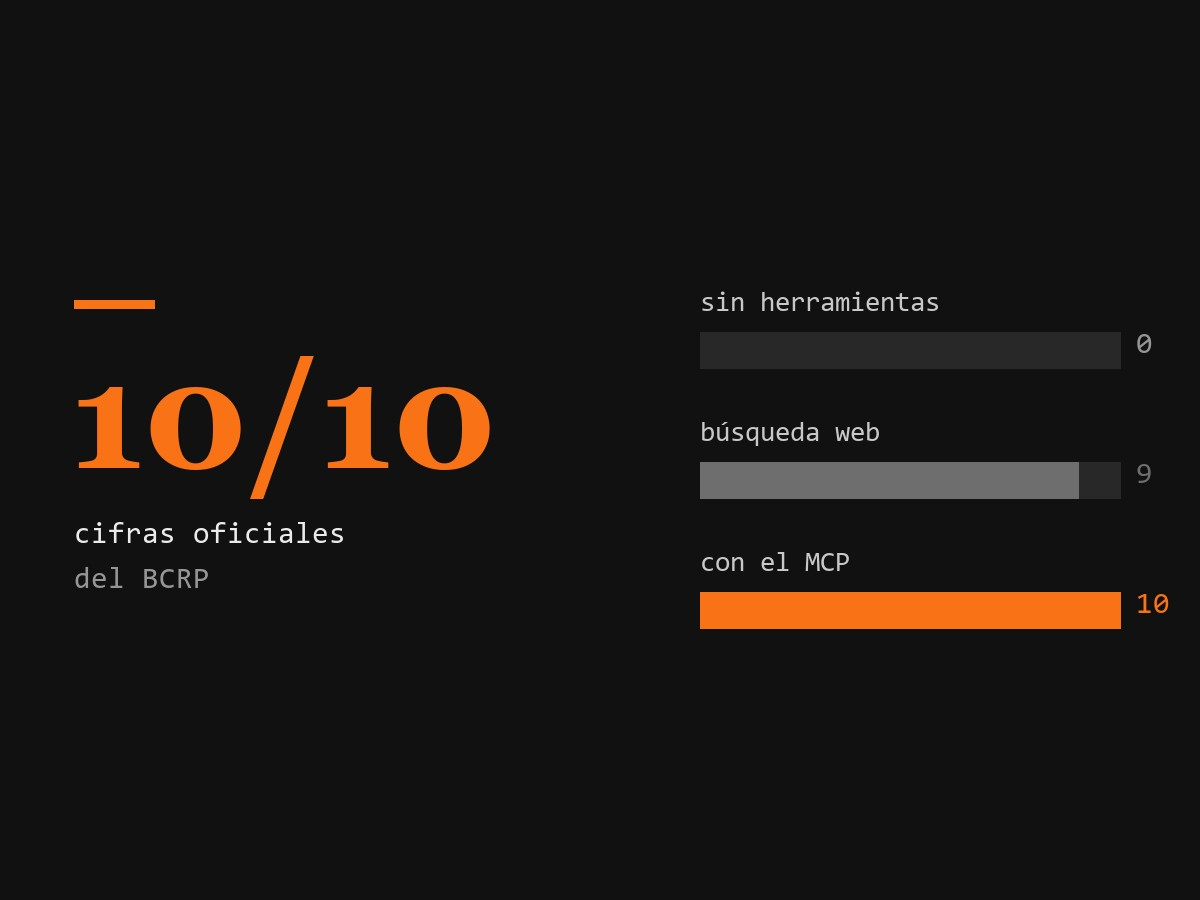
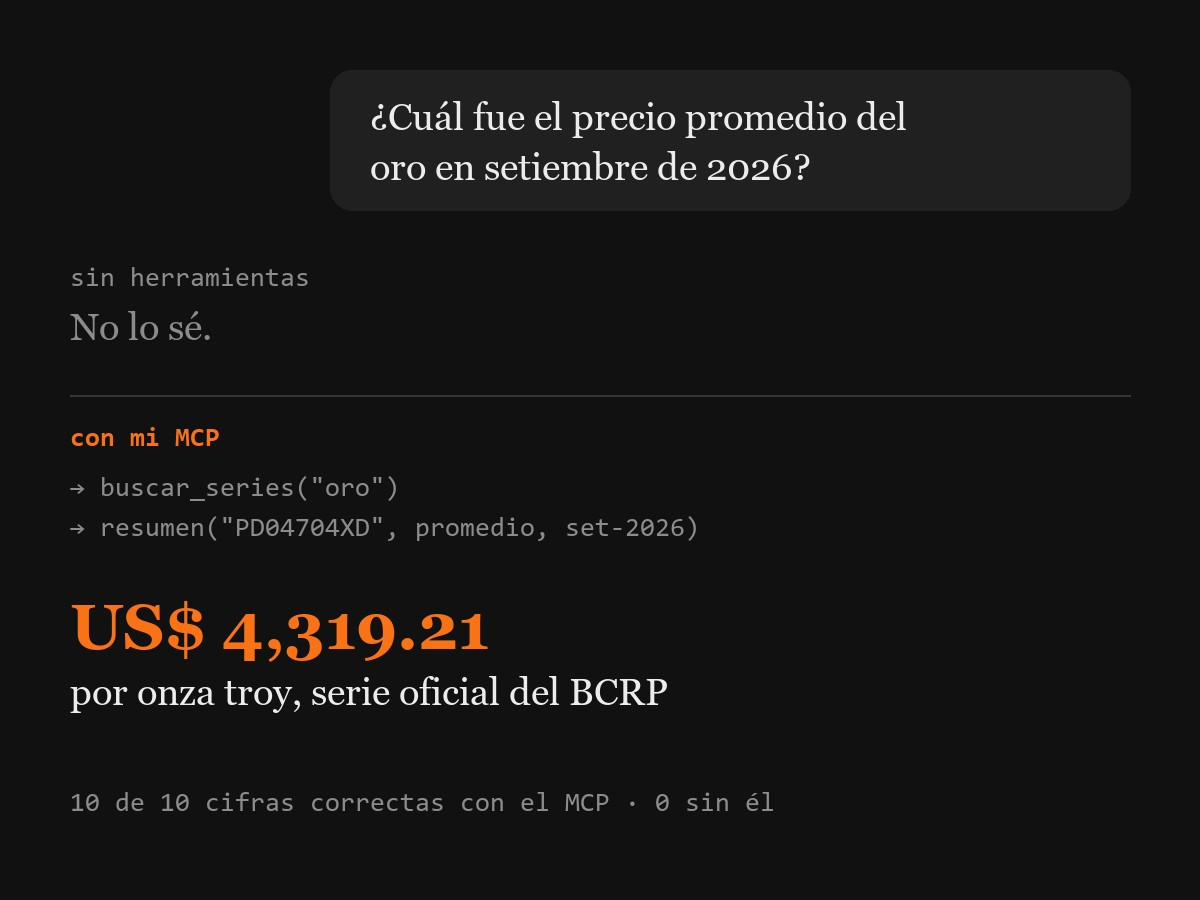
Miniaturas nuevas: Characato con imagen satelital, MCP con un caso real

diff --git a/index.html b/index.html
@@ -122,7 +122,7 @@
     </article>
 
     <article class="proyecto aparece">
-      <a href="https://github.com/nicosil02/mcp-bcrp"><img src="images/mcp-thumb.jpg" alt="Aciertos de Claude con y sin el servidor MCP del BCRP"></a>
+      <a href="https://github.com/nicosil02/mcp-bcrp"><img src="images/mcp-thumb.jpg" alt="Pregunta sobre el precio del oro respondida con la serie oficial del BCRP"></a>
       <div>
       <p class="etiqueta">Python · FastMCP · BCRP</p>
       <h3><span data-l="es">Un MCP con las series del BCRP</span><span data-l="en">An MCP server for Peru's central bank data</span></h3>
@@ -142,7 +142,7 @@
     </article>
 
     <article class="proyecto aparece">
-      <a href="https://github.com/nicosil02/incendios-chacras-peru"><img src="images/incendios-thumb.jpg" alt="Área quemada en Characato sobre el mapa de cobertura del suelo"></a>
+      <a href="https://github.com/nicosil02/incendios-chacras-peru"><img src="images/incendios-thumb.jpg" alt="Imagen Sentinel-2 de Characato antes y después del incendio; la zona quemada aparece en rojo"></a>
       <div>
       <p class="etiqueta">Python · Sentinel-2 · NASA FIRMS</p>
       <h3><span data-l="es">¿Qué se quemó en Characato?</span><span data-l="en">What burned in Characato?</span></h3>
